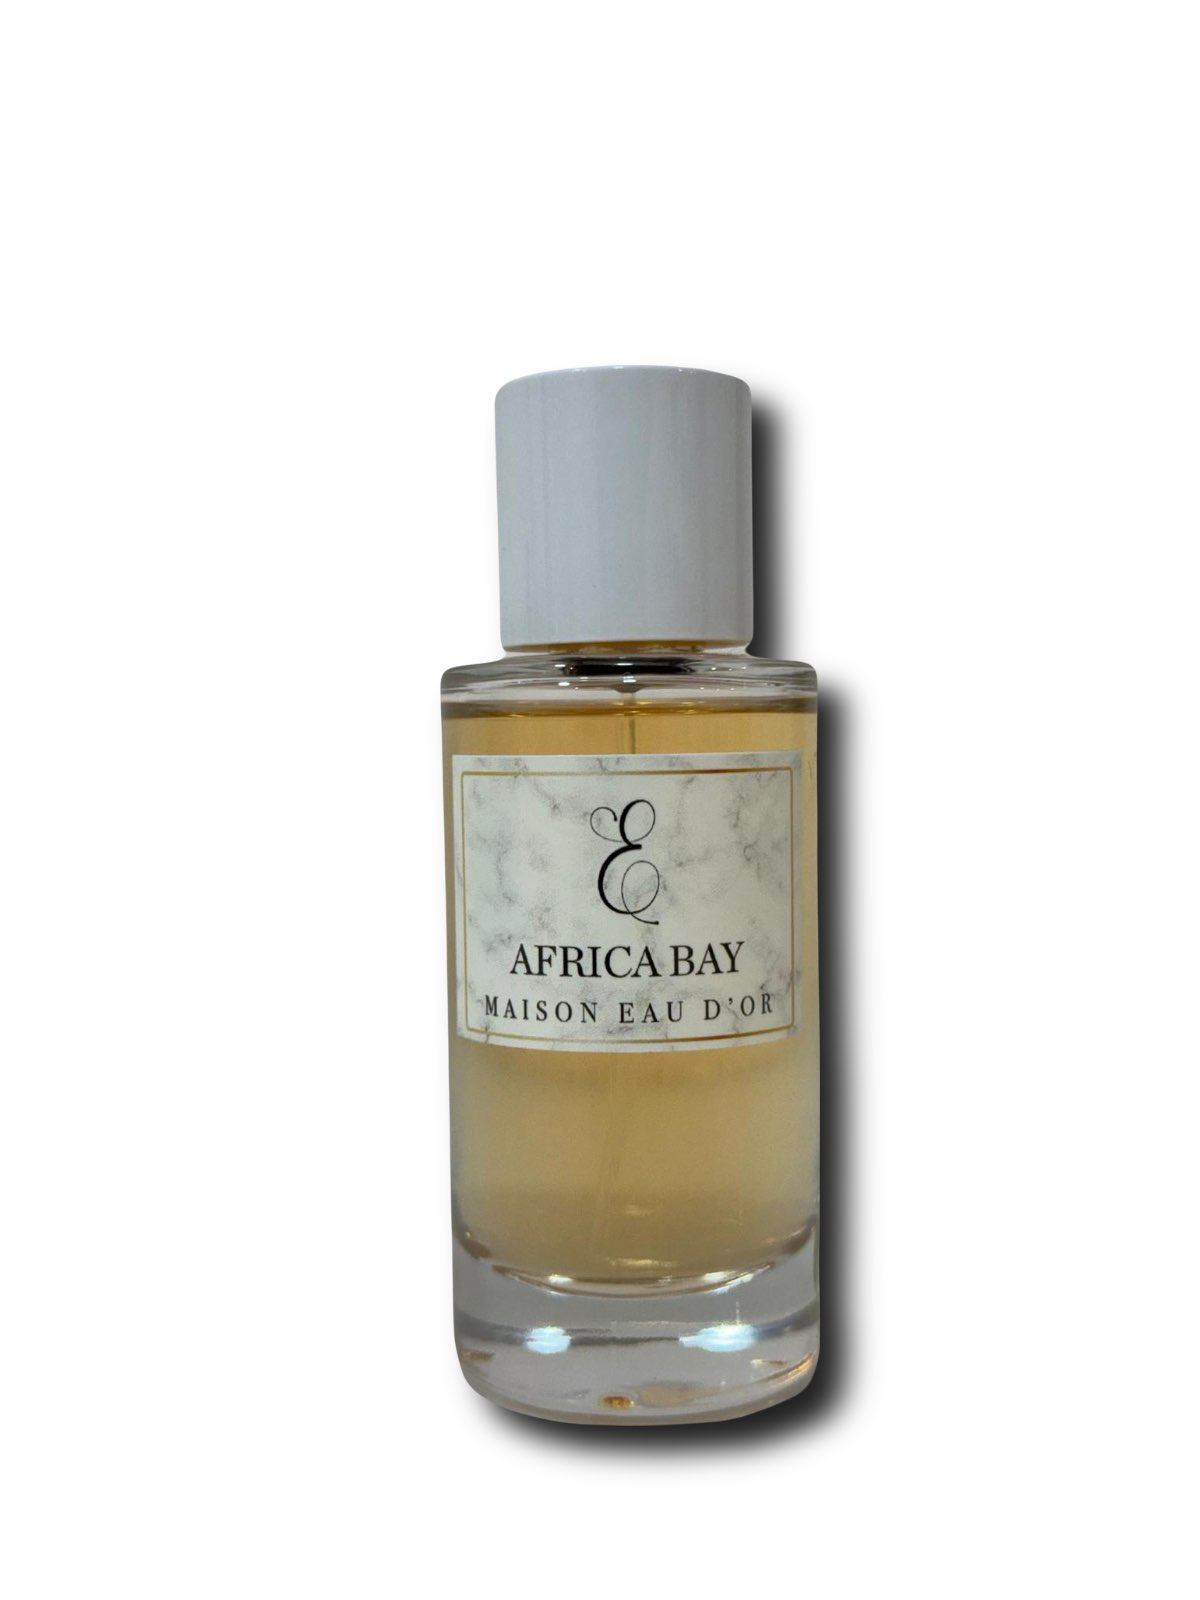
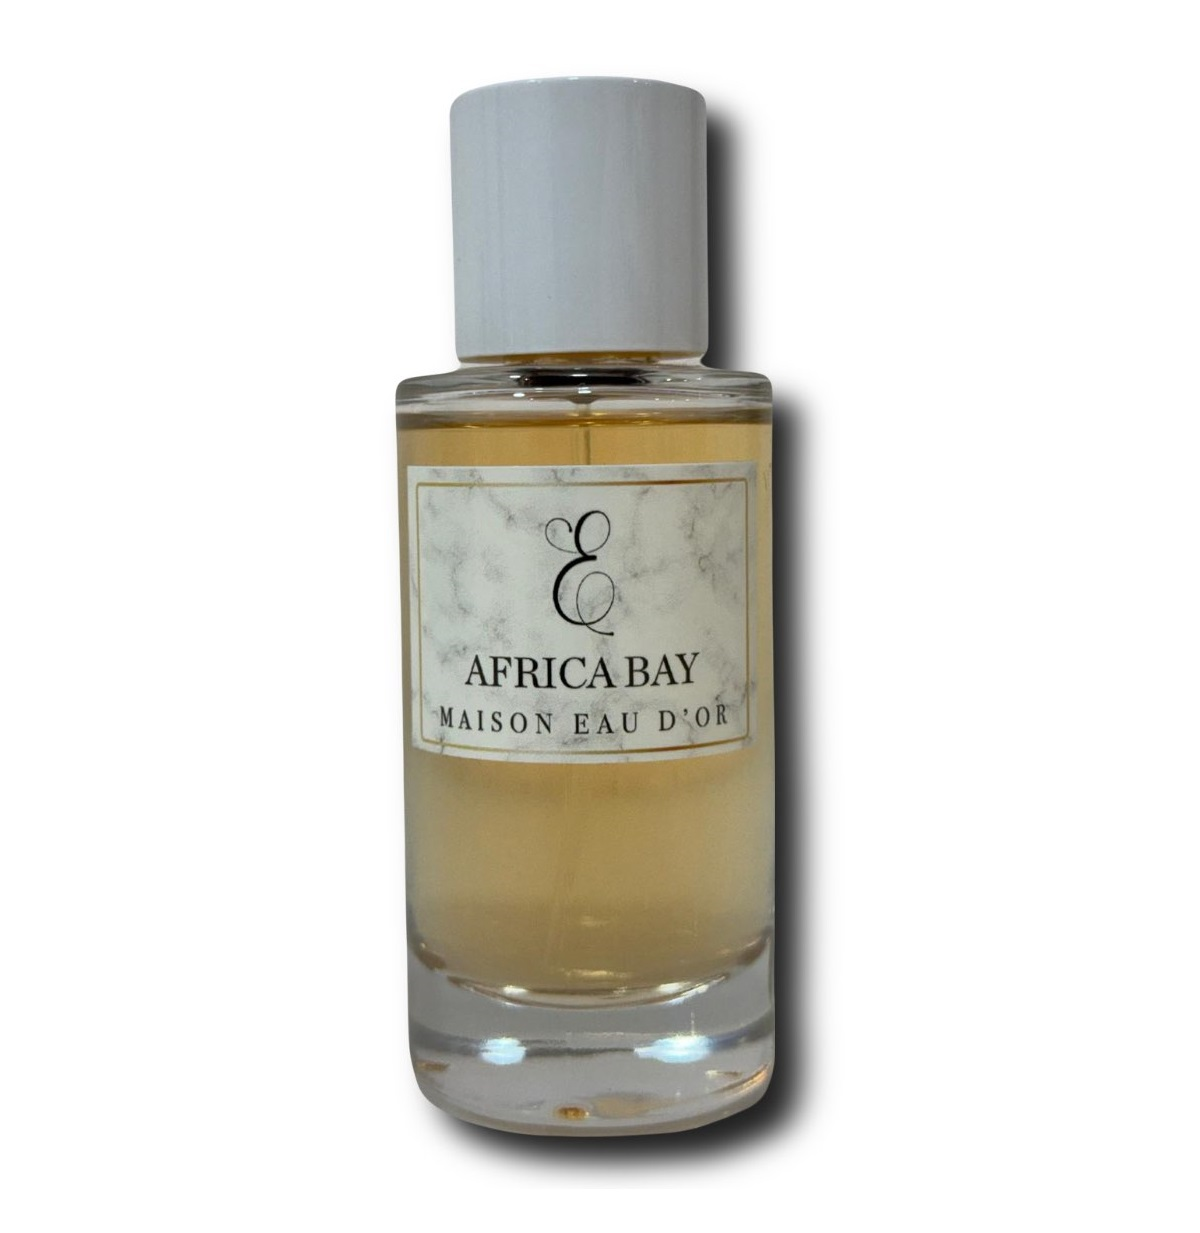
fix affichage et url catalogue et produit

Changed region(s): [[0.3083, 0.0616, 0.74, 0.9554]]

diff --git a/public/assets/js/catalogue.js b/public/assets/js/catalogue.js
@@ -73,8 +73,8 @@ function rechercherProduit() {
 var filtres = [
 	{ id: "a-z",              nom: "A-Z",              actif: false, sort: "name",      direction: "asc"  },
 	{ id: "z-a",              nom: "Z-A",              actif: false, sort: "name",      direction: "desc" },
-	{ id: "prix-croissant",   nom: "Prix croissant",   actif: false, sort: "price",     direction: "asc"  },
-	{ id: "prix-decroissant", nom: "Prix décroissant", actif: false, sort: "price",     direction: "desc" },
+	{ id: "prix-croissant",   nom: "Prix croissant",   actif: false, sort: "prix",     direction: "asc"  },
+	{ id: "prix-decroissant", nom: "Prix décroissant", actif: false, sort: "prix",     direction: "desc" },
 	// { id: "plus-recent",      nom: "Plus récent",      actif: false, sort: "createdAt", direction: "desc" }, // Pas de date pour le moment
 	// { id: "plus-ancien",      nom: "Plus ancien",      actif: false, sort: "createdAt", direction: "asc"  }, // Pas de date pour le moment
 ];
@@ -113,13 +113,12 @@ filtres.forEach(function(filtre) {
 	
 
 	// PERMET DE CREER LE LIEN EN GARDANT LES AUTRES PARAMETRES DE L'URL (ex: search)
-	var url = window.location.href;
-	if ( urlParams.get('search') != null ) { // si il y a un parametre search dans l'url
-		url = window.location.href.split("?")[0] + "?search=" + urlParams.get('search') + "&sortField=" + filtre.sort + "&sortDirection=" + filtre.direction;
-	}
-	else {
-		url = window.location.href.split("?")[0] + "?sortField=" + filtre.sort + "&sortDirection=" + filtre.direction;
-	}
+	var url = window.location.href.split("?")[0];
+	var tmpParams = new URLSearchParams(window.location.search);
+	tmpParams.set('sortField', filtre.sort);
+	tmpParams.set('sortDirection', filtre.direction);
+	tmpParams.delete('page'); // Supprimer la page pour revenir à la première page (car changement de tri)
+	url += "?" + tmpParams.toString();
 	a.href = url; 
 	
 	//a.href = window.location.href.split("?")[0] + "?sortField=" + filtre.sort + "&sortDirection=" + filtre.direction; // TODO : changer le lien pour qu'il renvoie vers la page avec le filtre PHP dans l'URL

diff --git a/public/assets/css/catalogue.css b/public/assets/css/catalogue.css
@@ -224,6 +224,8 @@ body, html {
 }
 
 .produit .image-container {
+	display: flex;
+	justify-content: center;
 	width: 200px;
 	height: 200px;
 	overflow: hidden;
@@ -231,8 +233,8 @@ body, html {
 }
 
 .produit .image-container img {
-	width: 100%;
-	height: 100%;
+	max-width: 100%;
+	max-height: 100%;
 	transition: transform .4s ease;
 }
 
@@ -291,12 +293,13 @@ body, html {
 	font-weight: 700;
 	line-height: normal;
 	border: 1px solid #000;
-	background: #FFF;
+	background-color: #FFF;
 	cursor: pointer;
+	transition: background-color 0.5s ease;
 }
 
 .produit .description button:hover {
-	background: #000;
+	background-color: #000;
 	color: #FFF;
 }
 

diff --git a/public/assets/css/produit.css b/public/assets/css/produit.css
@@ -62,19 +62,19 @@ body, html {
 
 /* Images */
 .img {
+	justify-content: center;
+	display: flex;
 	width: 500px;
 	height: 500px;
 	position: relative;
-	overflow: hidden;
+	overflow: show;
 	margin-right: 10%;
-	border: 1px solid #999;
 	transition: all 0.5s ease;
 }
 
 .imgPrincipalSolo {
-	width: 100%;
-	height: 100%;
-	object-fit: cover;
+	max-width: 500px;
+	max-height: 500px;
 }
 
 .imgPrincipal, .imgAutre {
@@ -305,8 +305,8 @@ body, html {
 }
 
 .similaire a img {
-	width: 200px;
-	height: 200px;
+	max-width: 200px;
+	max-height: 200px;
 	object-fit: cover;
 }
 

diff --git a/src/Controller/ProduitController.php b/src/Controller/ProduitController.php
@@ -40,25 +40,29 @@ class ProduitController extends AbstractController
 			$produitsSimilaires = $categorie->getProduits()->toArray();
 		
 			// On enlève le produit actuel du tableau des produits similaires
-			$pSFiltre = array_filter($produitsSimilaires, function($produit) use ($id) {
-				return $produit->getId() !== $id;
-			}); 
+			$pSFiltre = [];
+			foreach ($produitsSimilaires as $pS) {
+				if ($pS->getId() !== $id) {
+					$pSFiltre[] = $pS;
+				}
+			}
 
 			// Choix aléatoire de 3 produits similaires
 			$tmpSimilaires = [];
 			if (count($pSFiltre) < 3) {
 				// Si on a moins de 3 produits similaires, on prend tous les produits similaires
-				$tmpSimilaires = $pSFiltre;
+				foreach ($pSFiltre as $pS) {
+					$tmpSimilaires[] = $pS;
+				}
 			} else {
-				for ($i = 0; $i < 3; $i++) {
+				while (count($tmpSimilaires) < 3) {
 					$rand = floor(rand(0, count($pSFiltre) - 1));
-					$tmpSimilaires[] = $pSFiltre[
-						$rand == ($id-1) ? $rand + 1 : $rand
-					]; // On ajoute 1 pour éviter de tomber sur le produit actuel (qui vient d'être enlevé du tableau)
+					if (!in_array($pSFiltre[ $rand ], $tmpSimilaires)) { // Si le produit n'est pas déjà dans le tableau
+						$tmpSimilaires[] = $pSFiltre[ $rand ];
+					}
 				}
 			}
 
-			// dd($tmpSimilaires);
 
 			// Récupération des photos du produit et des produits similaires
 			$photos = $produit->getIdPhoto()->toArray();

diff --git a/src/Controller/CatalogueController.php b/src/Controller/CatalogueController.php
@@ -62,9 +62,11 @@ class CatalogueController extends AbstractController
 			case 'id':
 				$sort = 'id';
 				break;
+			case 'nom':
 			case 'name':
 				$sort = 'titreProduit';
 				break;
+			case 'price':
 			case 'prix':
 				$sort = 'prixProduit';
 				break;
@@ -86,8 +88,9 @@ class CatalogueController extends AbstractController
 			}
 		}
 
-		// dd($ids, $categorie);
-
+		
+		
+		// dd($sort, $order, $search, $idCategorie);
 		
 		// Récupération des produits
 		$produits = $this->entityManager->getRepository(Produit::class)->findProduitSimilarByName(
